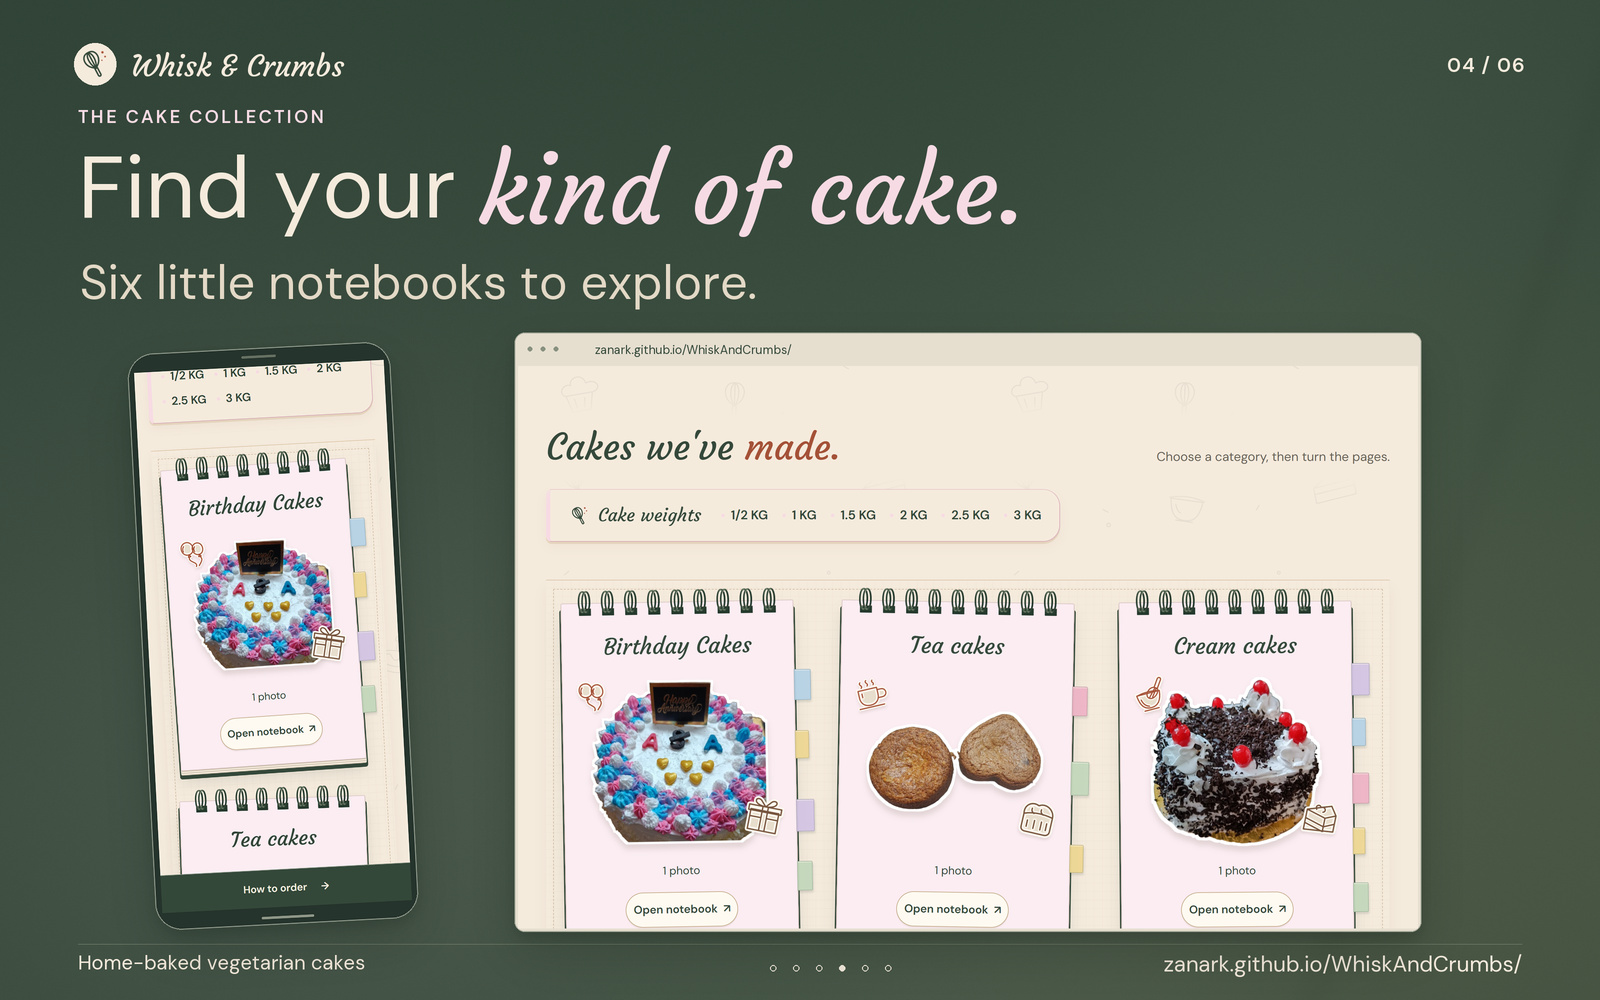
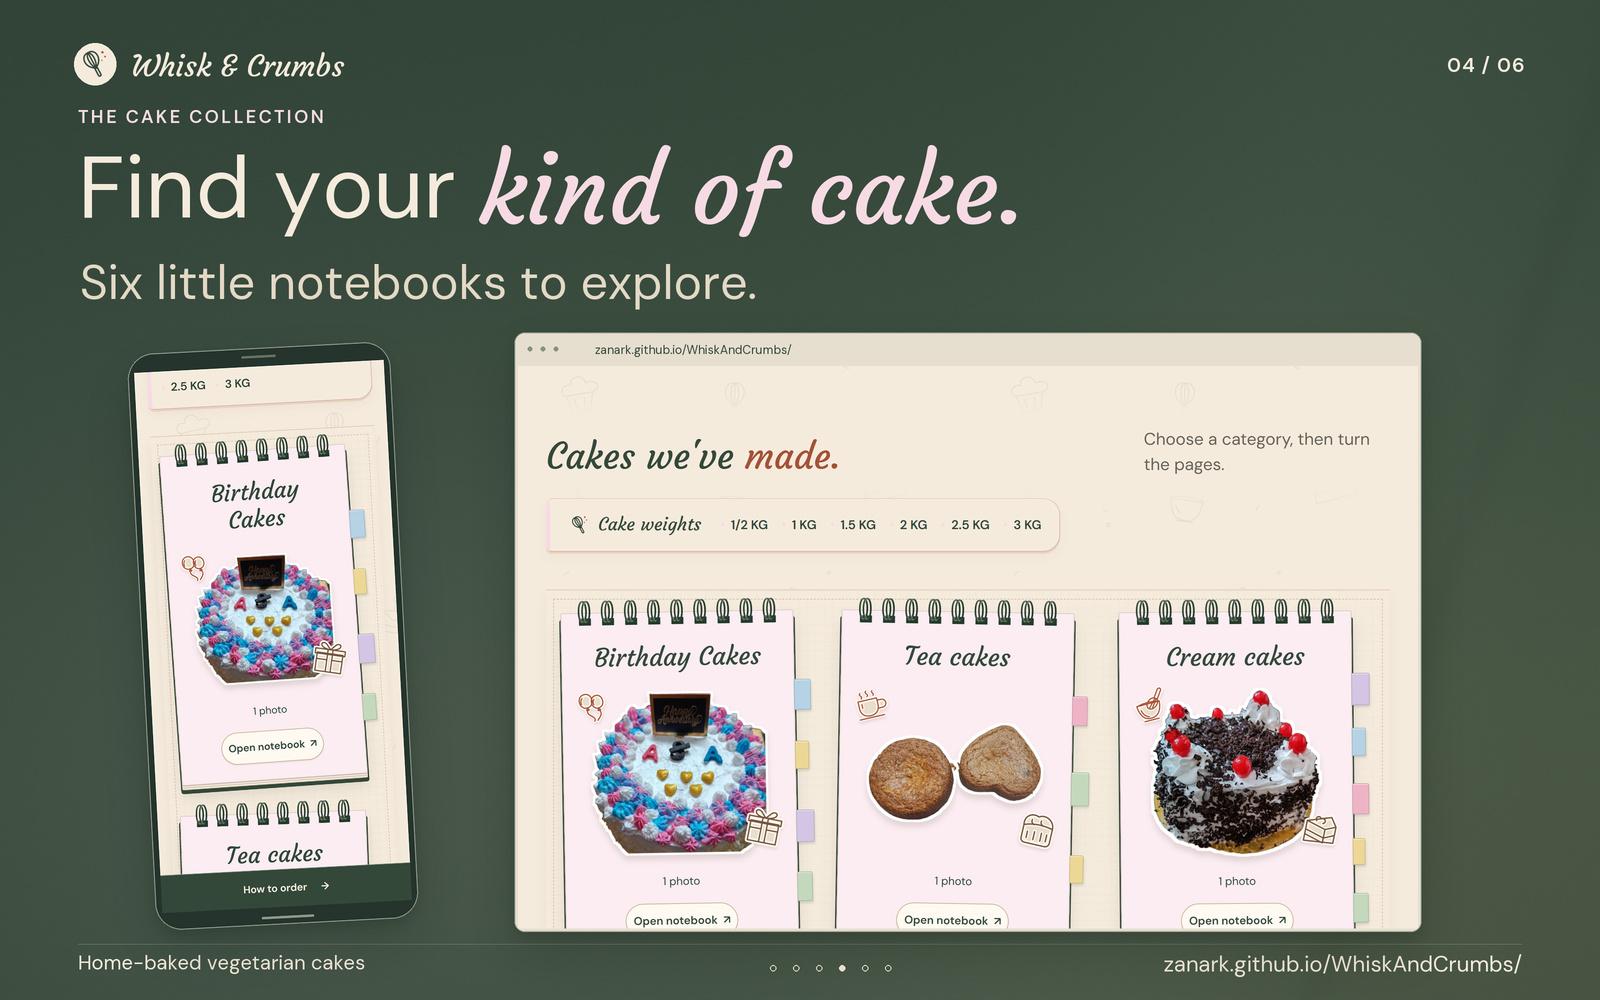
Enlarge cake titles and use opaque pastel notebook tabs
Increase cake descriptions, names and category headings without resizing buttons. Replace faded attachment gradients with solid pigment, retain complete readable fallbacks and refresh affected showcase images.

Copilot-Session: 065222f9-e445-4b98-a549-e6948580c174

diff --git a/site/index.html b/site/index.html
@@ -22,32 +22,32 @@
   <link rel="icon" href="assets/favicon.svg" type="image/svg+xml" sizes="any">
   <link rel="apple-touch-icon" href="assets/apple-touch-icon.png" sizes="180x180">
   <link rel="preload" href="assets/fonts/courgette-regular.ttf" as="font" type="font/ttf" crossorigin>
-  <link rel="stylesheet" href="styles.css?v=6f4e7c3ab5aa">
-  <link rel="stylesheet" href="entrance-shop.css?v=6f4e7c3ab5aa">
-  <link rel="stylesheet" href="cozy-bakery.css?v=6f4e7c3ab5aa">
-  <link rel="stylesheet" href="readability.css?v=6f4e7c3ab5aa">
-  <link rel="modulepreload" href="entrance.mjs?v=6f4e7c3ab5aa">
-  <link rel="modulepreload" href="bell.mjs?v=6f4e7c3ab5aa">
-  <link rel="modulepreload" href="notebooks.mjs?v=6f4e7c3ab5aa">
-  <script type="module" src="main.mjs?v=6f4e7c3ab5aa"></script>
+  <link rel="stylesheet" href="styles.css?v=9db31e68d7d1">
+  <link rel="stylesheet" href="entrance-shop.css?v=9db31e68d7d1">
+  <link rel="stylesheet" href="cozy-bakery.css?v=9db31e68d7d1">
+  <link rel="stylesheet" href="readability.css?v=9db31e68d7d1">
+  <link rel="modulepreload" href="entrance.mjs?v=9db31e68d7d1">
+  <link rel="modulepreload" href="bell.mjs?v=9db31e68d7d1">
+  <link rel="modulepreload" href="notebooks.mjs?v=9db31e68d7d1">
+  <script type="module" src="main.mjs?v=9db31e68d7d1"></script>
 </head>
 <body>
   <a class="skip-link" href="#main">Skip to cakes and ordering</a>
   <div id="bakery-entrance" class="bakery-entrance" data-state="pending" data-audio="waiting">
     <div class="entrance-art" aria-hidden="true">
       <div class="entrance-backdrop"></div>
-      <div class="entrance-shop" style="--facade-plaster:url('assets/bakery-facade-plaster.webp?v=6f4e7c3ab5aa');--sign-wood:url('assets/bakery-sign-wood.webp?v=6f4e7c3ab5aa')">
+      <div class="entrance-shop" style="--facade-plaster:url('assets/bakery-facade-plaster.webp?v=9db31e68d7d1');--sign-wood:url('assets/bakery-sign-wood.webp?v=9db31e68d7d1')">
         <div class="entrance-masonry"></div>
         <picture class="entrance-upper-storey">
-          <source media="(max-width: 600px)" srcset="assets/bakery-facade-upper-mobile.svg?v=6f4e7c3ab5aa">
-          <img src="assets/bakery-facade-upper.svg?v=6f4e7c3ab5aa" width="1200" height="360" alt="" decoding="async">
+          <source media="(max-width: 600px)" srcset="assets/bakery-facade-upper-mobile.svg?v=9db31e68d7d1">
+          <img src="assets/bakery-facade-upper.svg?v=9db31e68d7d1" width="1200" height="360" alt="" decoding="async">
         </picture>
         <div class="entrance-sign" data-brand="Whisk &amp; Crumbs">
           <img class="entrance-sign-mark" src="assets/whisk-and-crumbs-mark.svg" width="128" height="128" alt="">
           <span class="entrance-sign-copy"><span class="entrance-wordmark">Whisk &amp; Crumbs</span><span class="entrance-descriptor">Home-baked vegetarian cakes</span></span>
         </div>
         <span class="entrance-cornice"></span>
-        <div class="entrance-awning"><img src="assets/bakery-awning.svg?v=6f4e7c3ab5aa" width="1200" height="300" alt="" decoding="async"><span class="awning-supports" style="background-image:url('assets/bakery-awning-supports.svg?v=6f4e7c3ab5aa')"></span></div>
+        <div class="entrance-awning"><img src="assets/bakery-awning.svg?v=9db31e68d7d1" width="1200" height="300" alt="" decoding="async"><span class="awning-supports" style="background-image:url('assets/bakery-awning-supports.svg?v=9db31e68d7d1')"></span></div>
         <span class="entrance-pier entrance-pier-left"></span><span class="entrance-pier entrance-pier-right"></span>
         <div class="entrance-doorway">
           <div class="entrance-bell-mount"></div>
@@ -61,9 +61,9 @@
           <div class="entrance-doorframe">
             <div class="entrance-room">
               <picture class="entrance-room-poster">
-                <source media="(max-aspect-ratio: 4/5)" srcset="assets/bakery-interior-portrait.webp?v=6f4e7c3ab5aa">
-                <source media="(max-height: 600px)" srcset="assets/bakery-interior-short.webp?v=6f4e7c3ab5aa">
-                <img src="assets/bakery-interior-wide.webp?v=6f4e7c3ab5aa" width="1600" height="1000" alt="" decoding="async">
+                <source media="(max-aspect-ratio: 4/5)" srcset="assets/bakery-interior-portrait.webp?v=9db31e68d7d1">
+                <source media="(max-height: 600px)" srcset="assets/bakery-interior-short.webp?v=9db31e68d7d1">
+                <img src="assets/bakery-interior-wide.webp?v=9db31e68d7d1" width="1600" height="1000" alt="" decoding="async">
               </picture>
             </div>
             <div class="entrance-fixed-bay entrance-fixed-bay-left"><span class="entrance-display-glass"></span><span class="entrance-bay-panel"></span></div>
@@ -93,7 +93,7 @@
         </div>
         <span class="entrance-threshold"></span>
         <span class="entrance-step"></span>
-        <img class="entrance-pavement" src="assets/bakery-facade-ground.svg?v=6f4e7c3ab5aa" width="1200" height="140" alt="" decoding="async">
+        <img class="entrance-pavement" src="assets/bakery-facade-ground.svg?v=9db31e68d7d1" width="1200" height="140" alt="" decoding="async">
       </div>
     </div>
     <a id="entrance-enter" class="entrance-enter" href="#home" aria-label="Open the bakery doors and enter">
@@ -107,7 +107,7 @@
   </div>
   <noscript><style>.bakery-entrance { display: none !important; }</style></noscript>
   <header class="site-header">
-    <div class="shop-sign" style="--sign-wood:url('assets/bakery-sign-wood.webp?v=6f4e7c3ab5aa')">
+    <div class="shop-sign" style="--sign-wood:url('assets/bakery-sign-wood.webp?v=9db31e68d7d1')">
       <div class="container header-inner">
         <a class="brand" href="#home" aria-label="Whisk &amp; Crumbs - home">
           <img src="assets/whisk-and-crumbs-mark.svg" width="128" height="128" alt="">
@@ -121,7 +121,7 @@
       </nav>
     </div>
   </header>
-  <div class="site-awning" aria-hidden="true"><img src="assets/bakery-awning.svg?v=6f4e7c3ab5aa" width="1200" height="300" alt="" decoding="async"><span class="awning-supports" style="background-image:url('assets/bakery-awning-supports.svg?v=6f4e7c3ab5aa')"></span></div>
+  <div class="site-awning" aria-hidden="true"><img src="assets/bakery-awning.svg?v=9db31e68d7d1" width="1200" height="300" alt="" decoding="async"><span class="awning-supports" style="background-image:url('assets/bakery-awning-supports.svg?v=9db31e68d7d1')"></span></div>
 
   <main id="main" tabindex="-1">
     <section class="hero-section" id="home" aria-labelledby="hero-title">
@@ -724,7 +724,7 @@
         </div>
       </div>
     </section>
-    <div class="bakery-shelf" aria-hidden="true"><img src="assets/bakery-shelf.svg?v=6f4e7c3ab5aa" width="960" height="120" alt="" loading="lazy" decoding="async"></div>
+    <div class="bakery-shelf" aria-hidden="true"><img src="assets/bakery-shelf.svg?v=9db31e68d7d1" width="960" height="120" alt="" loading="lazy" decoding="async"></div>
   </main>
 
   <footer class="container site-footer">

diff --git a/site/styles.css b/site/styles.css
@@ -213,7 +213,7 @@ em { color: var(--accent); font-weight: inherit; font-style: normal; }
 .notebook-cover:nth-child(3n + 2) { --cover-angle: 1deg; }
 .notebook-cover:nth-child(3n) { --cover-angle: -.5deg; }
 .notebook-cover-tabs { position: absolute; inset: 0; z-index: 2; pointer-events: none; }
-.notebook-cover-tab { position: absolute; top: var(--flag-top); left: 100%; width: var(--flag-out); height: var(--flag-height); border: 1px solid rgb(52 72 58 / 20%); border-radius: 0 2px 2px 0; background: rgb(var(--tab-color) / 96%); box-shadow: 1px 3px 3px rgb(52 72 58 / 15%), inset 0 1px 0 rgb(255 250 241 / 65%); pointer-events: none; }
+.notebook-cover-tab { position: absolute; top: var(--flag-top); left: 100%; width: var(--flag-out); height: var(--flag-height); border: 1px solid rgb(52 72 58 / 20%); border-radius: 0 2px 2px 0; background: rgb(var(--tab-color)); box-shadow: 1px 3px 3px rgb(52 72 58 / 15%), inset 0 1px 0 rgb(255 250 241 / 65%); pointer-events: none; }
 .notebook-cover-tab[data-tab-color="pink"] { --tab-color: var(--tab-pink); }
 .notebook-cover-tab[data-tab-color="butter"] { --tab-color: var(--tab-butter); }
 .notebook-cover-tab[data-tab-color="blue"] { --tab-color: var(--tab-blue); }
@@ -561,7 +561,7 @@ html:has(:target) .bakery-entrance { display: none; }
   min-height: 48px;
   border: 1px solid transparent;
   border-radius: 2px;
-  background: transparent;
+  background: rgb(var(--tab-color));
   color: var(--green);
   text-decoration: underline;
   text-decoration-thickness: 1px;
@@ -591,12 +591,8 @@ html:has(:target) .bakery-entrance { display: none; }
 .category-notebook .photo-link::after {
   box-sizing: border-box;
   border: 1px solid rgb(52 72 58 / 18%);
-  border-left-color: rgb(52 72 58 / 7%);
   border-radius: 2px;
-  background:
-    linear-gradient(var(--tab-direction, 90deg), transparent calc(var(--tab-attachment, 24px) - 1px), rgb(52 72 58 / 10%) var(--tab-attachment, 24px), rgb(255 255 255 / 55%) calc(var(--tab-attachment, 24px) + 1px), transparent calc(var(--tab-attachment, 24px) + 2px)),
-    linear-gradient(var(--tab-direction, 90deg), rgb(var(--tab-color) / 16%), rgb(var(--tab-color) / 28%) calc(var(--tab-attachment, 24px) - 8px), rgb(var(--tab-color) / 78%) calc(var(--tab-attachment, 24px) + 4px), rgb(var(--tab-color) / 94%) calc(var(--tab-attachment, 24px) + 16px));
-  background-color: var(--cream);
+  background: rgb(var(--tab-color));
   box-shadow: 1px 2px 2px rgb(52 72 58 / 10%), inset 0 1px 0 rgb(255 255 255 / 55%);
 }
 .category-notebook .photo-link::after { --tab-color: var(--tab-blue); width: fit-content; max-width: 100%; margin-left: auto; padding-inline: 4px; text-decoration: underline; text-underline-offset: 3px; }
@@ -615,6 +611,10 @@ html:has(:target) .bakery-entrance { display: none; }
 .notebook-dialog-toolbar button:focus-visible { outline-offset: 2px; }
 @media (forced-colors: active) {
   .notebook-cover-tab { background: Canvas; border-color: ButtonText; box-shadow: none; }
+  .category-notebook .cake-enquire,
+  .category-notebook .notebook-static-back,
+  .category-notebook .notebook-controls button,
+  .notebook-dialog-toolbar button { background: Canvas; }
   .category-notebook .cake-enquire::before,
   .category-notebook .notebook-static-back::before,
   .category-notebook .notebook-controls button::before,
@@ -732,14 +732,14 @@ html:has(:target) .bakery-entrance { display: none; }
   gap: 4px;
   border: 1px solid transparent;
   border-radius: 2px;
-  background: transparent;
+  background: rgb(var(--tab-color));
   color: var(--green);
   text-decoration: underline;
   text-underline-offset: 3px;
   --tab-attachment: 16px;
 }
 .is-open-notebook .cake-enlarge { --tab-color: var(--tab-blue); }
-.is-open-notebook .cake-enlarge::before { content: ""; position: absolute; z-index: -1; inset: 0; border: 1px solid rgb(52 72 58 / 18%); border-radius: 2px; background: linear-gradient(var(--tab-direction, 90deg), rgb(182 210 229 / 28%), rgb(182 210 229 / 94%) 32px), var(--cream); box-shadow: 1px 2px 2px rgb(52 72 58 / 10%); pointer-events: none; }
+.is-open-notebook .cake-enlarge::before { content: ""; position: absolute; z-index: -1; inset: 0; border: 1px solid rgb(52 72 58 / 18%); border-radius: 2px; background: rgb(var(--tab-color)); box-shadow: 1px 2px 2px rgb(52 72 58 / 10%); pointer-events: none; }
 .is-open-notebook .cake-enlarge:focus-visible { outline-offset: 2px; }
 .is-open-notebook .notebook-controls { padding-inline: 0; grid-template-columns: repeat(3, minmax(0, 1fr)); }
 @media (min-width: 600px) and (max-height: 540px) {
@@ -757,6 +757,7 @@ html:has(:target) .bakery-entrance { display: none; }
   .is-open-notebook .notebook-controls button { width: 100%; min-width: 0; --tab-direction: 90deg; --tab-attachment: 16px; }
 }
 @media (forced-colors: active) {
+  .is-open-notebook .cake-card-actions > :is(.cake-enlarge, .cake-enquire) { background: Canvas; }
   .is-open-notebook .cake-enlarge::before { background: Canvas; border-color: ButtonText; box-shadow: none; }
 }
 @media print {

diff --git a/site/readability.css b/site/readability.css
@@ -12,16 +12,18 @@ body { font-size: var(--reading-size); line-height: 1.75; }
 .notebook-controls p { font-size: var(--control-size); line-height: 1.65; }
 .hero-description, .section-heading > p, .order-layout > div > p,
 .story-copy > p:not(.eyebrow) { font-size: var(--reading-size); }
+#cakes .section-heading > p { font-size: 1.5rem; line-height: 1.5; }
 .note-signature { font-size: 1.625rem; }
 .order-action > p.small-note { font-size: var(--control-size); }
 .order-layout > div > a:not(.button) { display: inline-flex; align-items: center; min-height: 48px; font-size: var(--control-size); }
-.category-notebook .cake-card-info h4,
 .category-notebook .cake-card-actions > :is(a, button),
 .category-notebook .notebook-controls button,
 .notebook-dialog .notebook-dialog-toolbar button,
-.photo-dialog button, #photo-title { font-size: 1.25rem; line-height: 1.25; }
+.photo-dialog button { font-size: 1.25rem; line-height: 1.25; }
 .category-notebook .photo-link::after { font-size: 1.25rem; line-height: 1.25; }
-.notebook-dialog .notebook-dialog-toolbar > p { font-size: 1.625rem; line-height: 1.2; }
-.category-notebook .notebook-sheet-copy h4 { font-size: 1.5rem; line-height: 1.25; }
+.notebook-cover h3, .category-notebook .notebook-heading h3 { font-size: 2.25rem; line-height: 1.2; }
+.notebook-dialog .notebook-dialog-toolbar > p { font-size: 2.125rem; line-height: 1.2; }
+.category-notebook .cake-card-info h4,
+.category-notebook .notebook-sheet-copy h4, #photo-title { font-size: 1.75rem; line-height: 1.25; }
 .category-notebook [data-page-counter], .category-notebook .notebook-turn-label,
 .category-notebook .notebook-empty-note, #notebook-fit-note, #photo-counter { font-size: 1.125rem; line-height: 1.25; }

diff --git a/README.md b/README.md
@@ -2,10 +2,10 @@
 
 [![Come on in: the illustrated bakery entrance on desktop and mobile, with a level interior view and continuous rose-and-cream sloped fabric above evenly aligned stripes and curved ends.](site/assets/showcase/02-bakery-entrance.jpg?v=b8a66c52d7b4)](https://zanark.github.io/WhiskAndCrumbs/)
 
-[![A little care in every layer: current desktop story and mobile recipe-note views with larger readable supporting copy, cream editorial typography and slim device framing.](site/assets/showcase/03-our-story.jpg?v=dbf9a8d31a6a)](https://zanark.github.io/WhiskAndCrumbs/#story)
+[![A little care in every layer: current desktop story and mobile recipe-note views with larger readable supporting copy, cream editorial typography and slim device framing.](site/assets/showcase/03-our-story.jpg?v=0a0a5de345b4)](https://zanark.github.io/WhiskAndCrumbs/#story)
 
-[![Find your kind of cake: current desktop and mobile views of extra-pale pink notebooks, real cake stickers and exterior pastel tabs in the refreshed collection artwork.](site/assets/showcase/04-cake-notebooks.jpg?v=e22c3ada3bd1)](https://zanark.github.io/WhiskAndCrumbs/#cakes)
+[![Find your kind of cake: current desktop and mobile views of extra-pale pink notebooks, larger category titles, real cake stickers and solid pastel index tabs.](site/assets/showcase/04-cake-notebooks.jpg?v=208e3a3c70b4)](https://zanark.github.io/WhiskAndCrumbs/#cakes)
 
-[![Take a closer look: complete current desktop and mobile views of the four-photo notebook, readable captions and controls protruding beyond its paper, with clearer editorial supporting text.](site/assets/showcase/05-open-notebook.jpg?v=97c0e85116b3)](https://zanark.github.io/WhiskAndCrumbs/#cakes)
+[![Take a closer look: complete current desktop and mobile views of the four-photo notebook, larger cake names and category headings, with opaque pastel controls attached beyond the cream paper.](site/assets/showcase/05-open-notebook.jpg?v=b5e34270cefc)](https://zanark.github.io/WhiskAndCrumbs/#cakes)
 
-[![Your next cake starts with hello: current desktop and mobile ordering views, larger supporting copy and the verified website address in the forest-green closing composition.](site/assets/showcase/06-simple-ordering.jpg?v=dc6f10e193e9)](https://zanark.github.io/WhiskAndCrumbs/#order)
+[![Your next cake starts with hello: current desktop and mobile ordering views, larger supporting copy and the verified website address in the forest-green closing composition.](site/assets/showcase/06-simple-ordering.jpg?v=895d8adf8348)](https://zanark.github.io/WhiskAndCrumbs/#order)

diff --git a/ABOUT.md b/ABOUT.md
@@ -101,10 +101,12 @@ On multi-page notebooks, use **Back / Next**, the arrow keys, or drag the bottom
 **Turn** control upward. Single-page notebooks do not show unnecessary page controls.
 **All categories** returns to the covers. **Enlarge** opens the full photograph;
 **Ask** opens the direct enquiry link. Full accessible action names are retained.
-The notebook's surrounding dialog is transparent: its visible paper ends before
-the exposed sticky tabs. **All categories**, page controls and each photo's
+The notebook's cream paper and pastel tabs are opaque, including the attachment
+strips. Only the space outside its visible outline is transparent, keeping the
+tabs clearly outside the paper. **All categories**, page controls and each photo's
 **Enlarge / Ask** tabs project beyond that outline, with generous click/tap areas.
-Captions and action text are larger, with a clear book heading.
+Cake names and category headings use larger type, with clearly labelled,
+generously sized controls.
 Enlarged photographs also fit the screen; their titles and controls wrap without
 forcing sideways scrolling.
 
